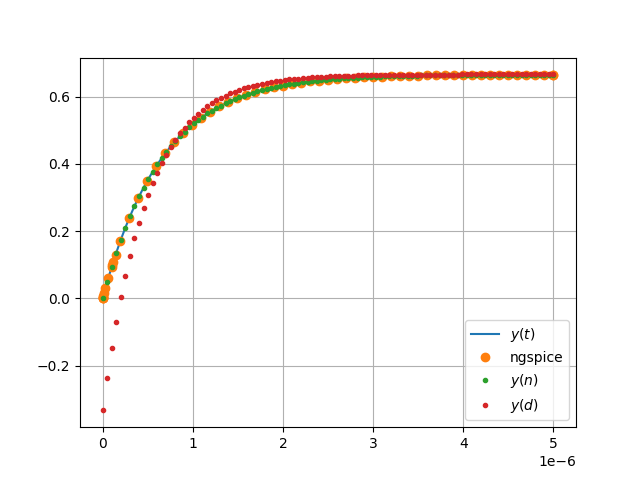
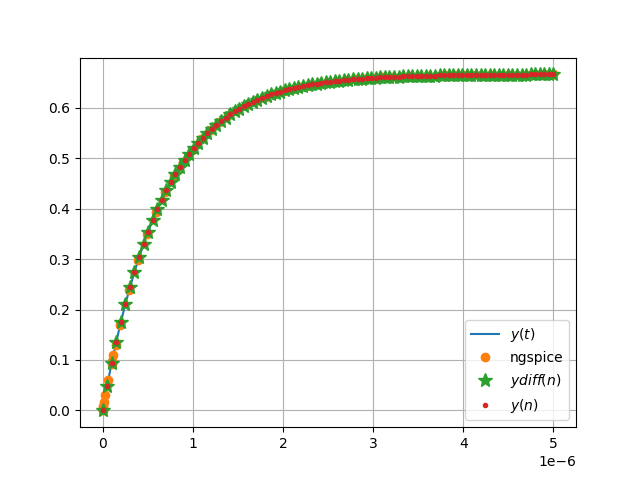
added differnce equation plot

diff --git a/codes/4.7.py b/codes/4.7.py
@@ -27,8 +27,7 @@ def y_diff(n):
     if n < 0:
         return 0
     else:
-        return (y_diff(n-1)*((1e-6 - 0.75)/(1e-6 + 0.75)**(n*5e6)))+2/3-(1/(1e-6+1.5))**(n*5e6)
-
+        return y_diff(n-1)*(((1 - 0.075)/(1 + 0.075))**(n*1e7))+((u(n)+u(n-1))*2/3)*(1 - ((1 - 0.075)/(1 + 0.075))**(n*1e7))
 yt = sp.vectorize(y_cont)
 yn = sp.vectorize(y_disc)
 yd = sp.vectorize(y_diff)
@@ -41,8 +40,9 @@ T = np.linspace(0, 5e-6, 100)
 
 plt.plot(T, yt(T), label='$y(t)$')
 plt.plot(spice[:,0], spice[:,1], 'o', label='ngspice')
+plt.plot(T, yd(T), '*', label='$ydiff(n)$',ms=10)
 plt.plot(T, yn(T), '.', label='$y(n)$')
-plt.plot(T, yd(T), '.', label='$y(d)$')
+
 plt.grid()
 plt.legend()
 plt.savefig('./figs/4.7.png')
